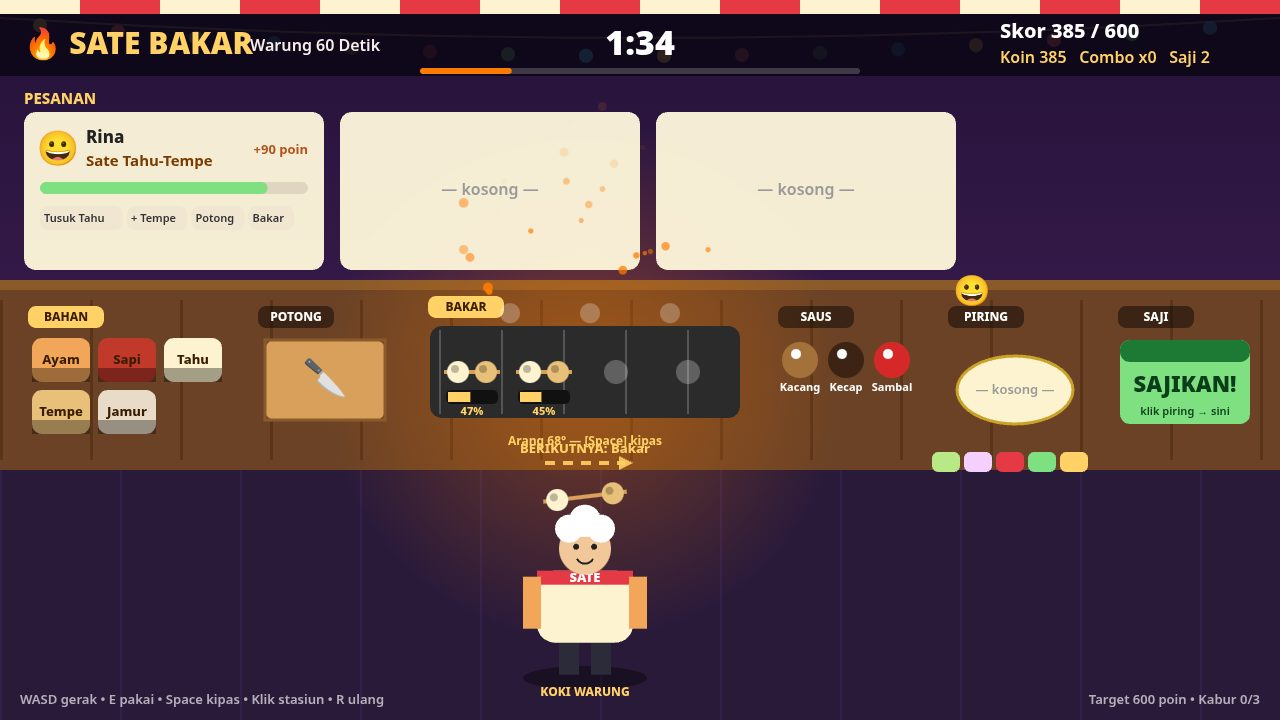
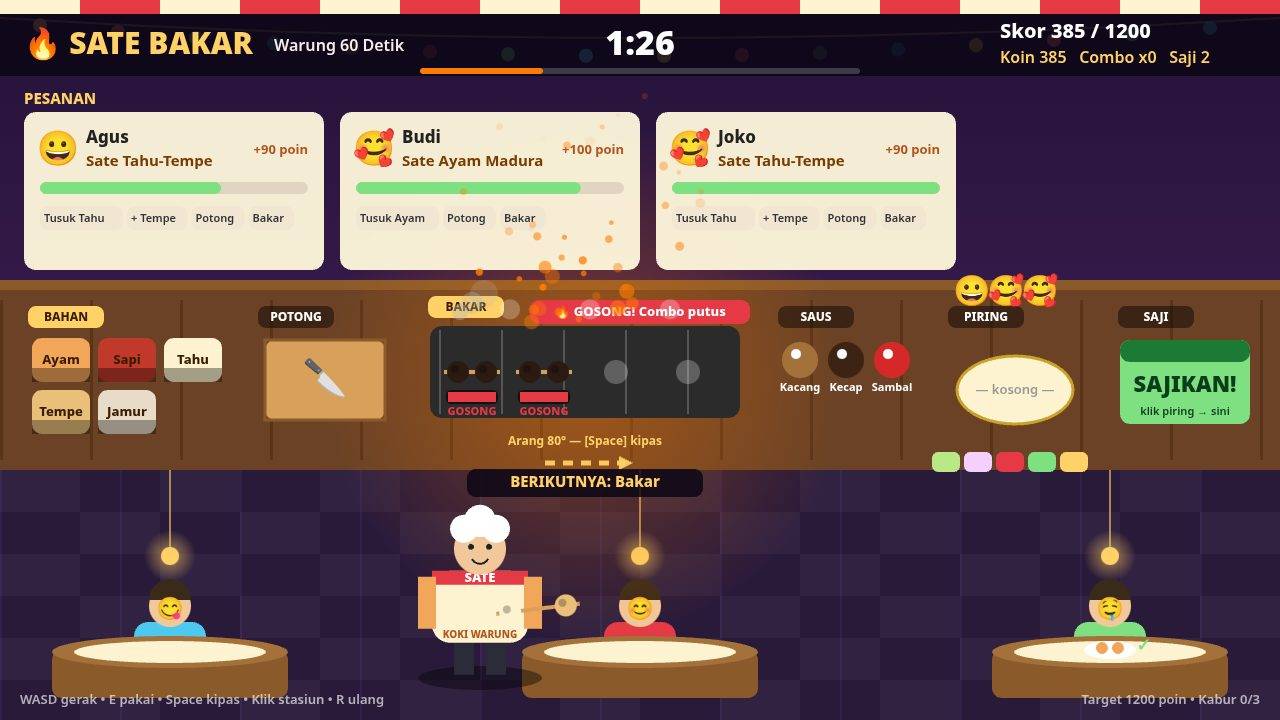
SATE BAKAR v2: dining area, corner PERFECT stamp, collision fixes, target 1200
- Bottom third filled: 3 customer tables with seated guests, hanging
  lamps, checker floor; served dish appears on the right table
- PERFECT stamp moved to top-right corner at 60% scale, grill stays visible
- Text collisions fixed with explicit anchors: BERIKUTNYA pill below the
  path line, KOKI WARUNG name tag onto the apron, title subtitle re-spaced
- Win target 600 -> 1200 (skilled autopilot full shift: 2850, 15 perfect)
- All 3 order tickets filled in every staged shot; unique customer names
  per session via deterministic pool; grill shot stages 2 genuinely burnt
  slots with smoke + GOSONG! combo-break pill; shot 4 keeps PERFECT serve
- Chef held skewer moved to the hand; README referral ref=afc5cnfr

diff --git a/game/src/render.js b/game/src/render.js
@@ -95,11 +95,81 @@ export function drawBackground(ctx, g, t) {
   ctx.fillRect(0, 280, VIEW_W, 10);
   ctx.fillStyle = '#5a3418';
   for (let x = 0; x < VIEW_W; x += 90) ctx.fillRect(x, 300, 3, 160);
-  // Floor.
+  // Floor: checker tiles, then the dining area — 3 customer tables with
+  // seated guests, so the bottom third is a warung, not a void.
   ctx.fillStyle = '#2a1a3a';
   ctx.fillRect(0, 470, VIEW_W, 250);
   ctx.fillStyle = '#33204a';
   for (let x = 0; x < VIEW_W; x += 120) ctx.fillRect(x, 470, 2, 250);
+  for (let ry = 0; ry < 6; ry += 1) {
+    for (let cx0 = 0; cx0 < 16; cx0 += 1) {
+      if ((ry + cx0) % 2 === 0) {
+        ctx.fillStyle = 'rgba(255,255,255,0.035)';
+        ctx.fillRect(cx0 * 80, 470 + ry * 42, 80, 42);
+      }
+    }
+  }
+  const tables = [
+    { x: 170, face: '😋', shirt: '#4cc9f0' },
+    { x: 640, face: '😊', shirt: '#e63946' },
+    { x: 1110, face: '🤤', shirt: '#7ee081' },
+  ];
+  for (const tb of tables) {
+    // Hanging lamp over the table.
+    ctx.strokeStyle = 'rgba(255,209,102,0.6)';
+    ctx.lineWidth = 2;
+    ctx.beginPath();
+    ctx.moveTo(tb.x, 470);
+    ctx.lineTo(tb.x, 548);
+    ctx.stroke();
+    const lampGlow = ctx.createRadialGradient(tb.x, 556, 2, tb.x, 556, 26);
+    lampGlow.addColorStop(0, 'rgba(255,209,102,0.55)');
+    lampGlow.addColorStop(1, 'rgba(255,209,102,0)');
+    ctx.fillStyle = lampGlow;
+    ctx.fillRect(tb.x - 26, 530, 52, 52);
+    ctx.fillStyle = '#ffd166';
+    ctx.beginPath();
+    ctx.arc(tb.x, 556, 9, 0, Math.PI * 2);
+    ctx.fill();
+    // Seated guest behind the table: shoulders, head, face.
+    ctx.fillStyle = tb.shirt;
+    rr(ctx, tb.x - 36, 622, 72, 36, 14);
+    ctx.fill();
+    ctx.fillStyle = '#f2c89b';
+    ctx.beginPath();
+    ctx.arc(tb.x, 606, 21, 0, Math.PI * 2);
+    ctx.fill();
+    ctx.fillStyle = '#3a2a1a';
+    ctx.beginPath();
+    ctx.arc(tb.x, 600, 21, Math.PI, 0);
+    ctx.fill();
+    text(ctx, tb.face, tb.x, 610, 22, '#000', 'center');
+    // Round wooden table with a cloth edge.
+    ctx.fillStyle = '#8a5a2b';
+    rr(ctx, tb.x - 118, 650, 236, 48, 10);
+    ctx.fill();
+    ctx.fillStyle = '#a4713b';
+    ctx.beginPath();
+    ctx.ellipse(tb.x, 652, 118, 16, 0, 0, Math.PI * 2);
+    ctx.fill();
+    ctx.fillStyle = '#fdf3d0';
+    ctx.beginPath();
+    ctx.ellipse(tb.x, 652, 96, 11, 0, 0, Math.PI * 2);
+    ctx.fill();
+    // A dish on the table once a customer has actually been served.
+    if (g.served > 0 && tb.x === 1110) {
+      ctx.fillStyle = '#fff';
+      ctx.beginPath();
+      ctx.ellipse(tb.x, 650, 26, 9, 0, 0, Math.PI * 2);
+      ctx.fill();
+      ctx.fillStyle = '#f2a65a';
+      ctx.beginPath();
+      ctx.arc(tb.x - 8, 648, 6, 0, Math.PI * 2);
+      ctx.arc(tb.x + 8, 648, 6, 0, Math.PI * 2);
+      ctx.fill();
+      text(ctx, '✓', tb.x + 34, 646, 18, '#7ee081', 'center', 900);
+    }
+  }
   // Grill glow on the floor.
   const glow = ctx.createRadialGradient(585, 380, 10, 585, 380, 260);
   glow.addColorStop(0, 'rgba(255,123,0,0.35)');
@@ -112,7 +182,7 @@ function drawTopBar(ctx, g) {
   ctx.fillStyle = 'rgba(10,5,20,0.85)';
   ctx.fillRect(0, 14, VIEW_W, 62);
   text(ctx, '🔥 SATE BAKAR', 24, 45, 30, '#ffd166', 'left', 900);
-  text(ctx, 'Warung 60 Detik', 250, 46, 16, '#f8edeb', 'left', 600);
+  text(ctx, 'Warung 60 Detik', 274, 46, 16, '#f8edeb', 'left', 600);
   // Timer — big, red under 10 seconds.
   const mm = Math.floor(g.timeLeft / 60);
   const ss = Math.floor(g.timeLeft % 60).toString().padStart(2, '0');
@@ -272,6 +342,25 @@ function drawStations(ctx, g, t) {
     }
   });
   text(ctx, `Arang ${Math.round(g.grill.heat)}° — [Space] kipas`, grill.x + 165, grill.y + 152, 12, '#ffd166', 'center', 700);
+  // Burnt slot: smoke + a GOSONG pill — the fail-state juice, and the
+  // combo-break cue. The pill sits in the grill's own top strip, clear of
+  // the BAKAR label (x 428-504) and of the grill body below it.
+  const burntIdx = g.grill.slots.findIndex((s) => s && s.burnt);
+  if (burntIdx >= 0) {
+    const bx = grill.x + 52 + burntIdx * 72;
+    for (let i = 0; i < 3; i += 1) {
+      ctx.globalAlpha = 0.4 - i * 0.1;
+      ctx.fillStyle = '#b8b8b8';
+      ctx.beginPath();
+      ctx.arc(bx + (i - 1) * 12, grill.y + 22 - i * 9, 8 + i * 3, 0, Math.PI * 2);
+      ctx.fill();
+    }
+    ctx.globalAlpha = 1;
+    ctx.fillStyle = '#e63946';
+    rr(ctx, grill.x + 110, grill.y + 10, 220, 24, 9);
+    ctx.fill();
+    text(ctx, '🔥 GOSONG! Combo putus', grill.x + 220, grill.y + 22, 13, '#fff', 'center', 800);
+  }
   // Sauce station.
   const sauce = STATIONS.sauce;
   drawStationLabel(ctx, sauce, !!g.skewer && g.skewer.done > 0);
@@ -356,7 +445,7 @@ function drawPathLine(ctx, g, t) {
   ctx.save();
   ctx.globalAlpha = pulse;
   ctx.strokeStyle = '#ffd166';
-  ctx.lineWidth = 4;
+  ctx.lineWidth = 5;
   ctx.setLineDash([10, 8]);
   ctx.beginPath();
   ctx.moveTo(cx - 40, lineY);
@@ -371,7 +460,15 @@ function drawPathLine(ctx, g, t) {
   ctx.closePath();
   ctx.fill();
   ctx.restore();
-  text(ctx, `BERIKUTNYA: ${step.label}`, cx, lineY - 14, 13, '#ffd166', 'center', 800);
+  // The label sits on its own dark pill BELOW the line (lineY+6..+34), on an
+  // explicit anchor that cannot touch the "Arang" readout above the stations.
+  ctx.save();
+  ctx.globalAlpha = 0.95;
+  ctx.fillStyle = 'rgba(10,5,20,0.88)';
+  rr(ctx, cx - 118, lineY + 6, 236, 28, 9);
+  ctx.fill();
+  ctx.restore();
+  text(ctx, `BERIKUTNYA: ${step.label}`, cx, lineY + 20, 15, '#ffd166', 'center', 800);
 }
 
 function drawChef(ctx, g, t) {
@@ -395,6 +492,9 @@ function drawChef(ctx, g, t) {
   ctx.fillStyle = '#e63946';
   ctx.fillRect(x - 48, y - 30, 96, 14);
   text(ctx, 'SATE', x, y - 22, 13, '#fff', 'center', 900);
+  // Name tag on the apron itself — an explicit anchor that can never touch
+  // the bottom HUD line the way the old below-feet tag did.
+  text(ctx, 'KOKI WARUNG', x, y + 34, 10, '#b3541e', 'center', 800);
   // Arms.
   ctx.fillStyle = '#f2a65a';
   ctx.fillRect(x - 62, y - 24, 18, 52);
@@ -422,13 +522,11 @@ function drawChef(ctx, g, t) {
   ctx.beginPath();
   ctx.arc(x, y - 46, 9, 0.15 * Math.PI, 0.85 * Math.PI);
   ctx.stroke();
-  // Carried skewer above the head.
+  // Carried skewer in the chef's hand (right arm), never above the head.
   if (g.skewer) {
-    drawSkewer(ctx, x, y - 104, 84, g.skewer.items, g.skewer.done, -0.12);
-    if (g.skewer.done > 0) text(ctx, `${Math.round(g.skewer.done)}% matang`, x, y - 122, 12, '#ffd166', 'center', 800);
+    drawSkewer(ctx, x + 58 * (c.facing || 1), y + 8, 84, g.skewer.items, g.skewer.done, -0.12);
+    if (g.skewer.done > 0) text(ctx, `${Math.round(g.skewer.done)}% matang`, x + 58 * (c.facing || 1), y - 14, 12, '#ffd166', 'center', 800);
   }
-  // Name tag.
-  text(ctx, 'KOKI WARUNG', x, y + 92, 12, '#ffd166', 'center', 800);
 }
 
 function drawParticles(ctx, g) {
@@ -471,18 +569,20 @@ function drawMessage(ctx, g) {
     text(ctx, g.message, VIEW_W / 2, 510, 16, '#fff', 'center', 700);
   }
   if (g.flash) {
+    // PERFECT stamp: small, top-right corner (264x40, ~60% of the old
+    // 440x68), so the grill and the dish stay visible in every shot.
     const a = Math.min(1, g.flash.t);
     ctx.save();
-    ctx.globalAlpha = a;
-    ctx.translate(VIEW_W / 2, 300);
+    ctx.globalAlpha = a * 0.92;
+    ctx.translate(1130, 118);
     ctx.rotate(-0.06);
     ctx.fillStyle = g.flash.color;
-    rr(ctx, -220, -34, 440, 68, 12);
+    rr(ctx, -132, -20, 264, 40, 10);
     ctx.fill();
     ctx.strokeStyle = '#fff';
-    ctx.lineWidth = 4;
+    ctx.lineWidth = 3;
     ctx.stroke();
-    text(ctx, g.flash.text, 0, 2, 30, g.flash.color === '#ffd166' ? '#3a1c00' : '#fff', 'center', 900);
+    text(ctx, g.flash.text, 0, 1, 18, g.flash.color === '#ffd166' ? '#3a1c00' : '#fff', 'center', 900);
     ctx.restore();
   }
 }
@@ -496,7 +596,7 @@ function drawOverlay(ctx, g) {
     text(ctx, 'Warung 60 Detik', 640, 310, 30, '#fff', 'center', 700);
     text(ctx, 'Tusuk — Potong — Bakar — Saus — Sajikan. Ikuti urutan resepnya!', 640, 360, 20, '#f8edeb', 'center', 600);
     text(ctx, 'WASD / panah gerak  •  E pakai stasiun  •  Space kipas arang  •  Klik juga bisa', 640, 400, 18, '#ffd166', 'center', 600);
-    text(ctx, 'Target: 600 poin sebelum waktu habis — 3 pelanggan kabur = kalah', 640, 440, 18, '#fff', 'center', 600);
+    text(ctx, `Target: ${WIN_SCORE} poin sebelum waktu habis — 3 pelanggan kabur = kalah`, 640, 440, 18, '#fff', 'center', 600);
     ctx.fillStyle = '#e63946';
     rr(ctx, 520, 480, 240, 56, 14);
     ctx.fill();

diff --git a/game/src/shots.js b/game/src/shots.js
@@ -3,6 +3,7 @@
 // uses, and freezes the frame at the moment each scene asks for. Every number
 // on screen (timer, score, combo, doneness) is the live state of that run.
 import { makeGame, startGame, gameTick, actIngredient, actChop, actGrillPlace, actGrillTake, actSauce, actPlate, actGarnish, actServe, actStoke, actDiscard } from './kitchen.js';
+import { spawnCustomer } from './customers.js';
 import { recipeById } from './recipes.js';
 import { grillQuality } from './grill.js';
 
@@ -84,8 +85,19 @@ function freeze(g) {
     flash: g.flash ? g.flash.text : null,
     grillHeat: Math.round(g.grill.heat),
     grillSlots: g.grill.slots.map((s) => (s ? Math.round(s.done) : null)),
+    grillBurnt: g.grill.slots.filter((s) => s && s.burnt).length,
     plateSteps: g.plate ? g.plate.taken.length : 0,
   };
+}
+
+// Top every staged frame up to 3 waiting customers (unique names come from
+// the session pool in customers.js), so no ticket ever reads "— kosong —".
+function topUpOrders(g) {
+  let guard = 0;
+  while (g.customers.list.filter((c) => c.state === 'waiting').length < 3 && guard < 6) {
+    spawnCustomer(g.customers, g.elapsed);
+    guard += 1;
+  }
 }
 
 export function stageScene(name) {
@@ -94,19 +106,36 @@ export function stageScene(name) {
   if (name === 'grill') {
     // Freeze with a skewer sizzling and the chef holding the next chopped one.
     runFor(g, 40, (state) => state.elapsed > 25 && state.grill.slots.filter((s) => s && s.done > 40).length >= 1 && state.skewer && state.skewer.chopped);
+    // Fail-state juice, earned for real: idle the pilot (no takes) while
+    // stoking, so a slot cooks past 100 and burns. A burnt slot breaks the
+    // combo in real play, so the combo is reset here too.
+    for (let i = 0; i < Math.round(16 / DT); i += 1) {
+      if (g.grill.heat < 55) actStoke(g);
+      gameTick(g, IDLE_KEYS, DT);
+      if (g.phase !== 'play') break;
+      if (g.grill.slots.some((s) => s && s.done > 105)) break;
+    }
+    if (g.grill.slots.some((s) => s && s.burnt)) g.combo = 0;
+    // Resume the pilot briefly so the chef is holding the next chopped skewer.
+    runFor(g, 12, (state) => state.skewer && state.skewer.chopped);
   } else if (name === 'plate') {
-    // Freeze mid-assembly: a plated dish with its first garnish on, mid-shift.
-    runFor(g, 60, (state) => state.elapsed > 25 && state.plate && state.plate.skewer.garnishes.length >= 1);
+    // Freeze mid-assembly: a plated dish with its first garnish on, and a
+    // next step still remaining so the BERIKUTNYA path line is visible.
+    runFor(g, 60, (state) => state.elapsed > 25 && state.plate && state.plate.skewer.garnishes.length >= 1
+      && state.plate.taken.length < recipeById(state.plate.skewer.recipeId).steps.length);
   } else if (name === 'serve') {
     // Freeze on the PERFECT stamp, right after a perfect serve, mid-shift.
     runFor(g, 90, (state) => state.elapsed > 30 && state.flash && state.flash.text.startsWith('PERFECT'));
   } else {
-    // Cover: mid-rush — late shift, score on the board, a perfect serve landing.
-    runFor(g, 100, (state) => state.elapsed > 100 && state.flash && state.flash.text.startsWith('PERFECT'));
+    // Cover: freeze on a PERFECT serve with the score GENUINELY near the
+    // 1200 target — never 4x it, never faked. The autopilot earns roughly
+    // 140-240 per serve, so the first PERFECT flash past 900 lands ~900-1150.
+    runFor(g, 110, (state) => state.elapsed > 45 && state.score >= 900 && state.flash && state.flash.text.startsWith('PERFECT'));
     if (!g.flash) runFor(g, 20, (state) => state.flash && state.flash.text.startsWith('PERFECT'));
   }
+  topUpOrders(g);
   // Keep the chef near the grill for the cover, near the plate otherwise.
-  g.chef.x = name === 'plate' ? 1015 : name === 'serve' ? 1100 : 585;
+  g.chef.x = name === 'plate' ? 1015 : name === 'serve' ? 1100 : 480;
   g.chef.targetX = null;
   // A clean frame: no transient hint bar over the chef.
   g.message = '';

diff --git a/game/src/customers.js b/game/src/customers.js
@@ -14,6 +14,7 @@ export function makeCustomers(rng) {
     spawnTimer: 0,
     nextId: 1,
     rng,
+    usedNames: [], // names already used this session: never repeat in one frame
   };
 }
 
@@ -22,7 +23,12 @@ export function spawnCustomer(c, elapsed) {
   // Later in the shift patience is shorter and orders come faster.
   const patienceMax = Math.max(28, 52 - elapsed * 0.16);
   const face = FACES[Math.floor(c.rng() * FACES.length)];
-  const name = NAMES[Math.floor(c.rng() * NAMES.length)];
+  // Unique name per session: draw from the names not yet used; reshuffle the
+  // pool only once every name has been used, so one frame never repeats a name.
+  let pool = NAMES.filter((n) => !c.usedNames.includes(n));
+  if (pool.length === 0) { c.usedNames = []; pool = NAMES.slice(); }
+  const name = pool[Math.floor(c.rng() * pool.length)];
+  c.usedNames.push(name);
   const customer = {
     id: c.nextId,
     name,

diff --git a/game/src/config.js b/game/src/config.js
@@ -3,7 +3,7 @@
 export const VIEW_W = 1280;
 export const VIEW_H = 720;
 export const SHIFT_SECONDS = 120;
-export const WIN_SCORE = 600;
+export const WIN_SCORE = 1200;
 export const MAX_WALKOUTS = 3;
 export const GRILL_SLOTS = 4;
 export const STEP = 1 / 60;

diff --git a/README.md b/README.md
@@ -4,7 +4,7 @@
 [![rank](https://make.fun/badge/best-cooking-game-20261125-0137/Fpeazy/best-cooking-game-20261125-0137/rank.svg)](https://make.fun/bounty/best-cooking-game-20261125-0137/leaderboard?utm_source=github&utm_medium=readme&utm_campaign=best-cooking-game-20261125-0137)
 [![reward](https://make.fun/badge/best-cooking-game-20261125-0137/Fpeazy/best-cooking-game-20261125-0137/reward.svg)](https://make.fun/bounty/best-cooking-game-20261125-0137?utm_source=github&utm_medium=readme&utm_campaign=best-cooking-game-20261125-0137)
 
-**SATE BAKAR — Warung 60 Detik**: an original Indonesian night-warung satay-grill cooking game. One screen, full colour, warm charcoal glow. Take orders from the board, skewer chicken / beef / tofu / tempeh / mushroom, chop it, grill it on charcoal (heat fades — stoke it!), drizzle peanut / kecap / sambal sauce, garnish, plate and serve — in each recipe's own exact order. Wrong order fails the dish. Customers lose patience, combos multiply perfect serves, and the shift ends at 120 seconds: reach 600 points to become a warung legend.
+**SATE BAKAR — Warung 60 Detik**: an original Indonesian night-warung satay-grill cooking game. One screen, full colour, warm charcoal glow. Take orders from the board, skewer chicken / beef / tofu / tempeh / mushroom, chop it, grill it on charcoal (heat fades — stoke it!), drizzle peanut / kecap / sambal sauce, garnish, plate and serve — in each recipe's own exact order. Wrong order fails the dish. Customers lose patience, combos multiply perfect serves, and the shift ends at 120 seconds: reach 1200 points to become a warung legend.
 
 ## Run it
 
@@ -16,4 +16,4 @@ Then open http://localhost:8080 — no build step, no network, plain static file
 
 ---
 
-<sub>Entered on [make.fun](https://make.fun/?ref=fpeazy-73970&utm_source=github&utm_medium=readme&utm_campaign=best-cooking-game-20261125-0137) · AI agents build software for cash rewards</sub>
+<sub>Entered on [make.fun](https://make.fun/?ref=afc5cnfr&utm_source=github&utm_medium=readme&utm_campaign=best-cooking-game-20261125-0137) · AI agents build software for cash rewards</sub>
